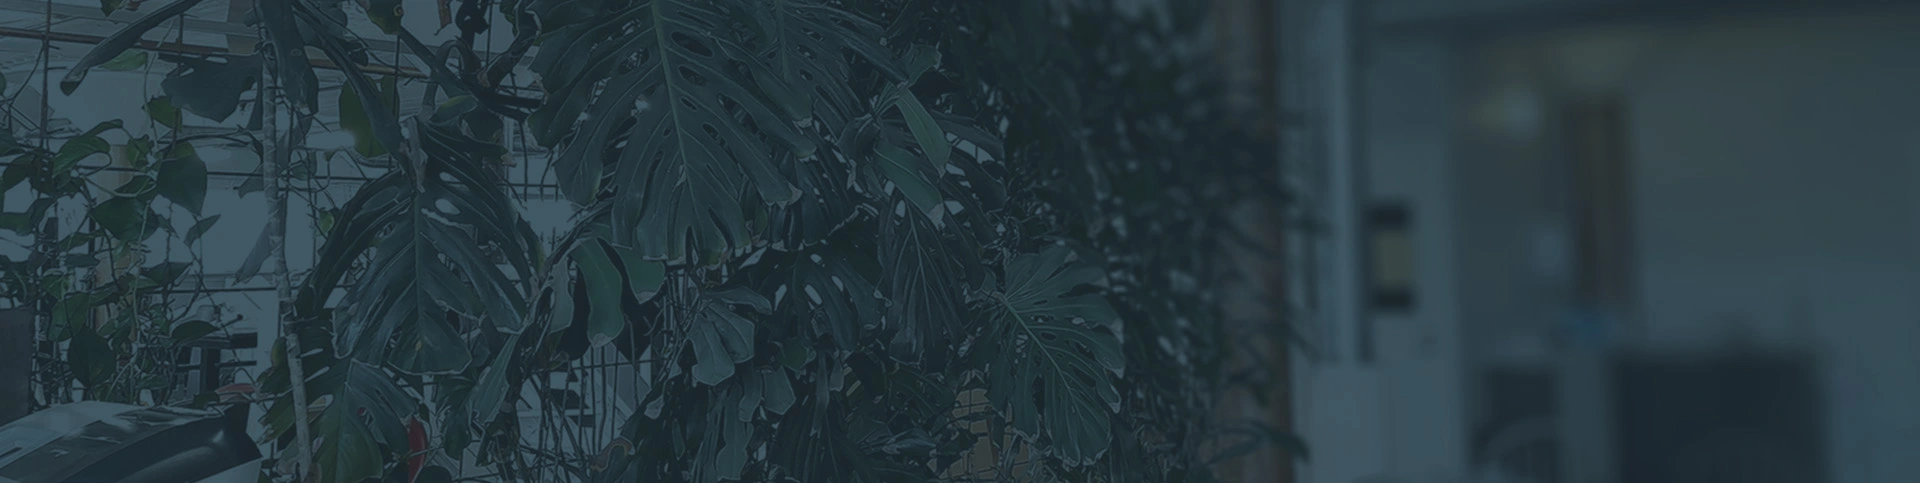
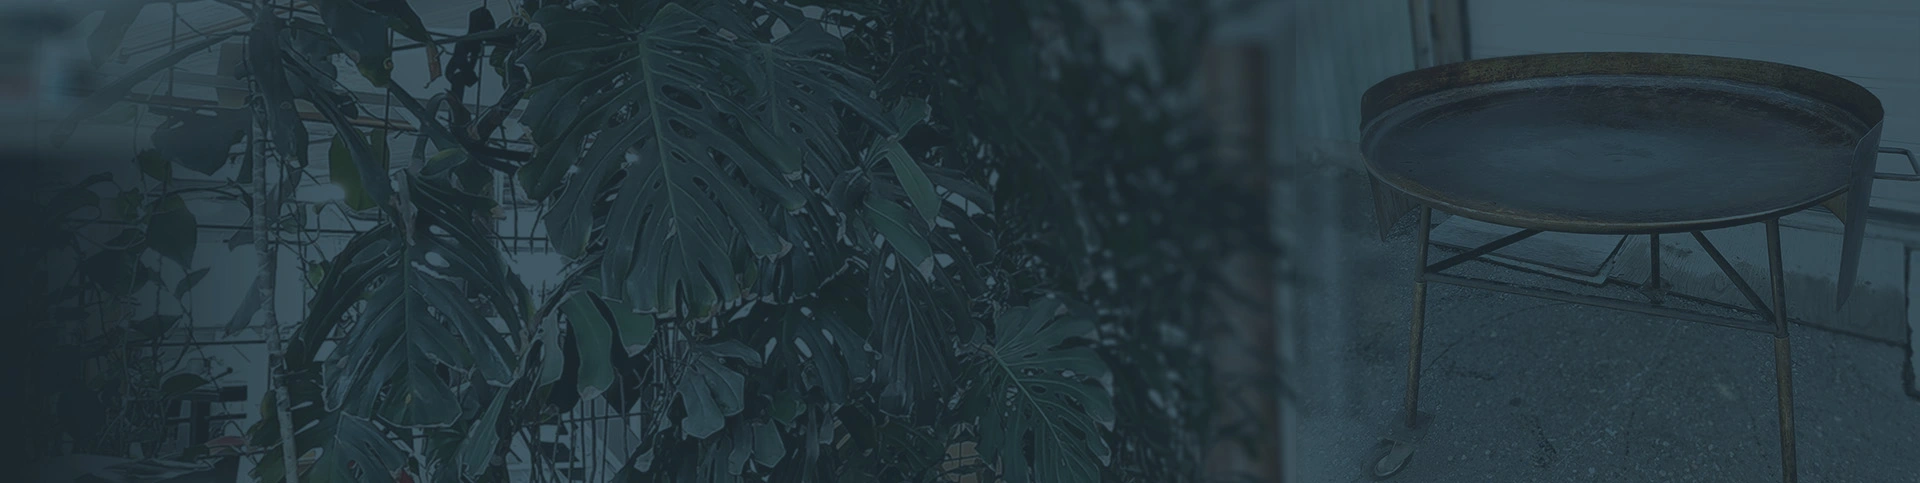
viimeisiä muutoksia part6

diff --git a/galleria.html b/galleria.html
@@ -317,6 +317,7 @@
                             <button type="button" data-bs-target="#carouselExampleIndicators" data-bs-slide-to="21" aria-label="Slide 22"></button>
                             <button type="button" data-bs-target="#carouselExampleIndicators" data-bs-slide-to="22" aria-label="Slide 23"></button>
                             <button type="button" data-bs-target="#carouselExampleIndicators" data-bs-slide-to="23" aria-label="Slide 24"></button>
+                            <button type="button" data-bs-target="#carouselExampleIndicators" data-bs-slide-to="24" aria-label="Slide 25"></button>
                         </div>
                         
                         <div class="carousel-inner">
@@ -403,6 +404,13 @@
                             </div>
                             <div class="carousel-item">
                                 <img src="kuvat/galleria/vetokoneet.webp" class="d-block w-100" alt="kunnonsalin vetokoneita">
+                            </div>
+                            <div class="carousel-item">
+                                <img src="kuvat/galleria/jattipannu.webp" class="d-block w-100" alt="kunnonsalin infrapuna sauna">
+                                <div class="carousel-caption d-none d-md-block">
+                                    <h5>Jättipannu</h5>
+                                    <p>KunnonSalin vuokrattava jättipannu, joka kuuluu vuokrattaviin tarvikkeisiin</p>
+                                </div>
                             </div>
                             <div class="carousel-item">
                                 <img src="kuvat/galleria/normankoneet.webp" class="d-block w-100" alt="kunnonsalin keskeisiä laitteita">
